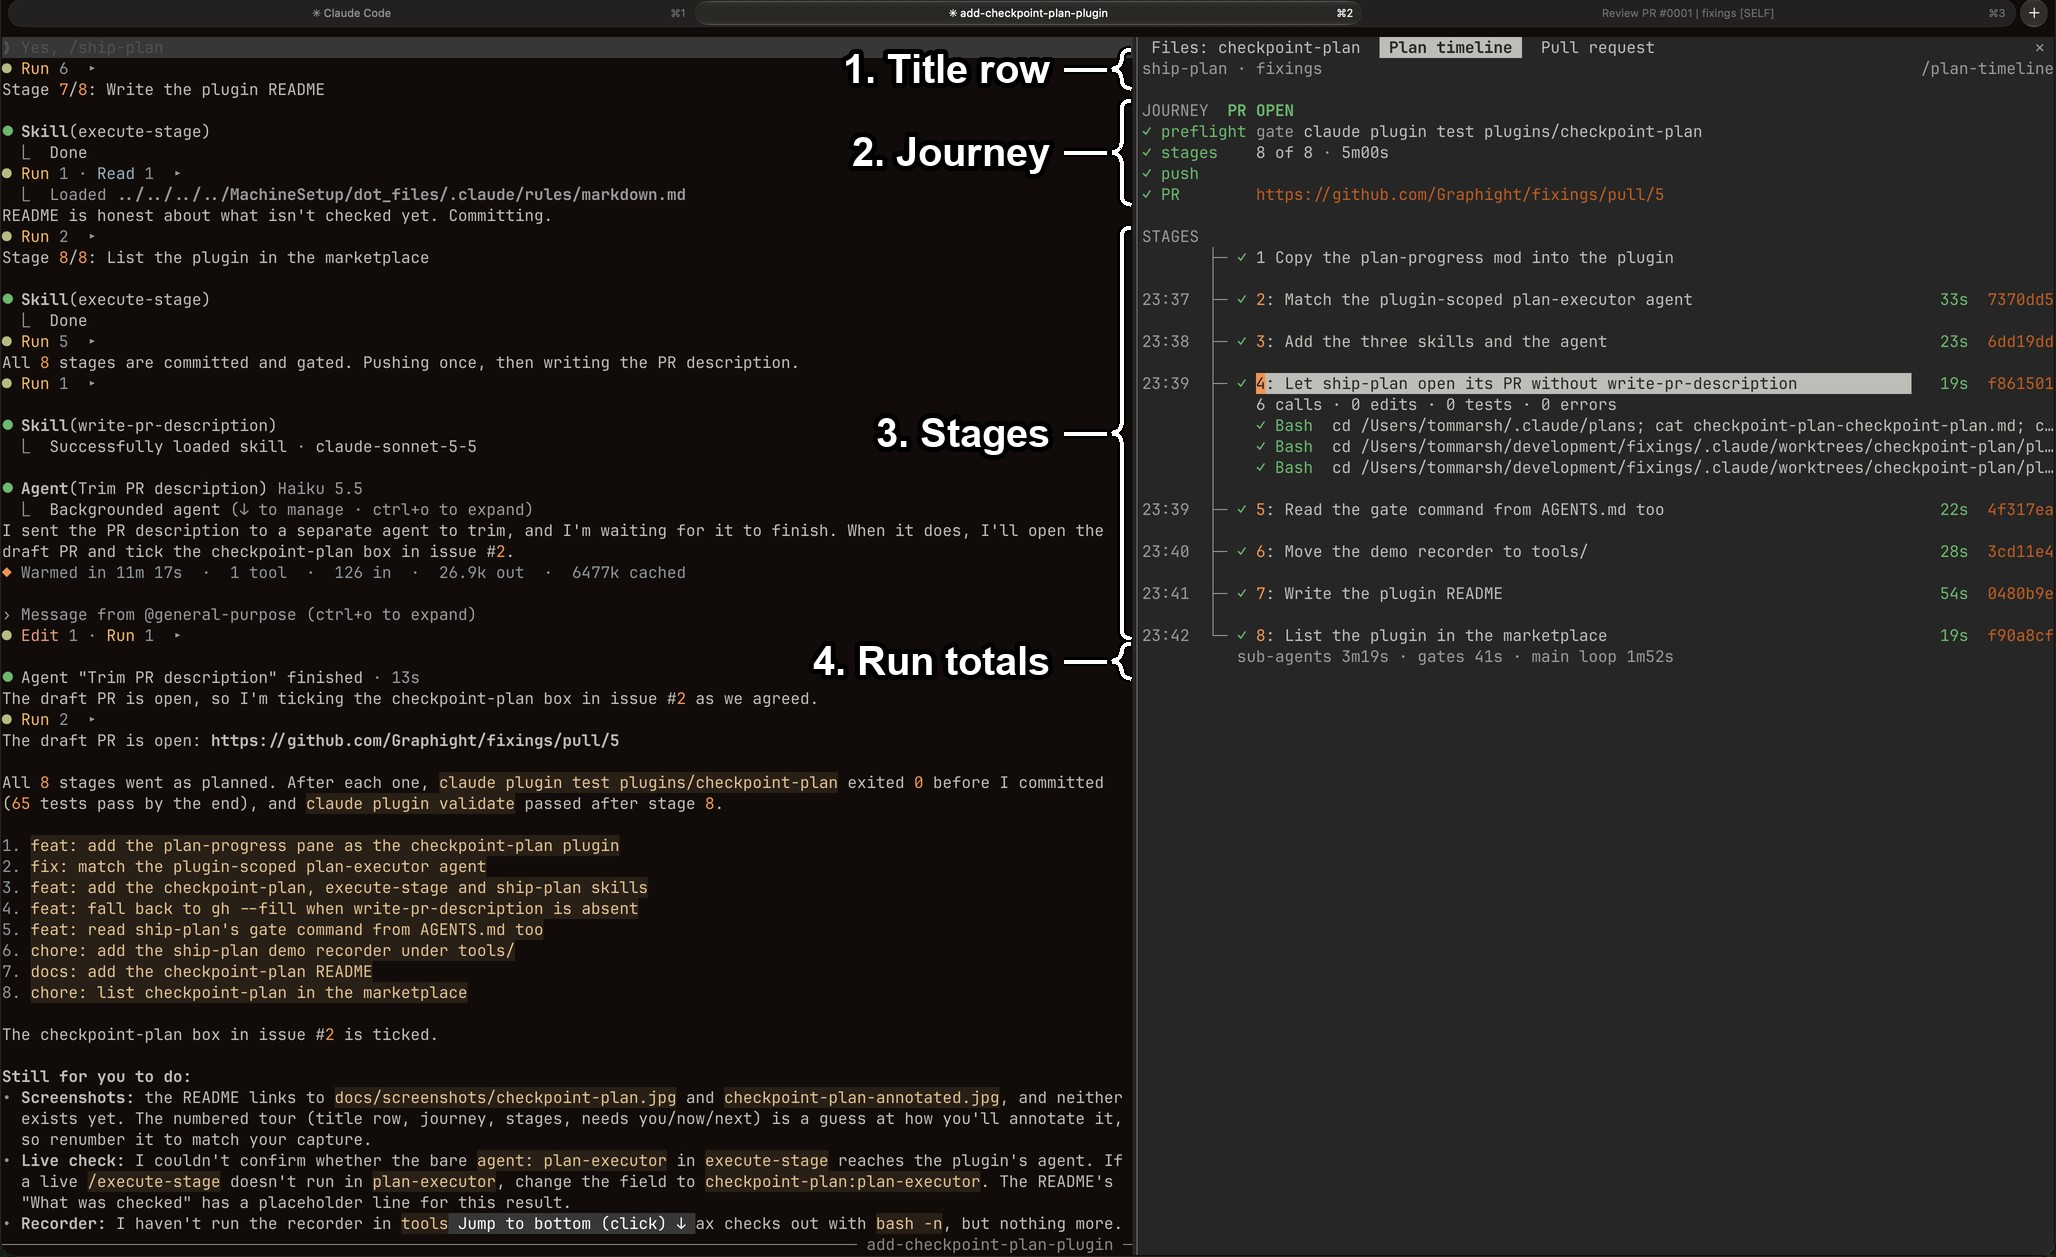
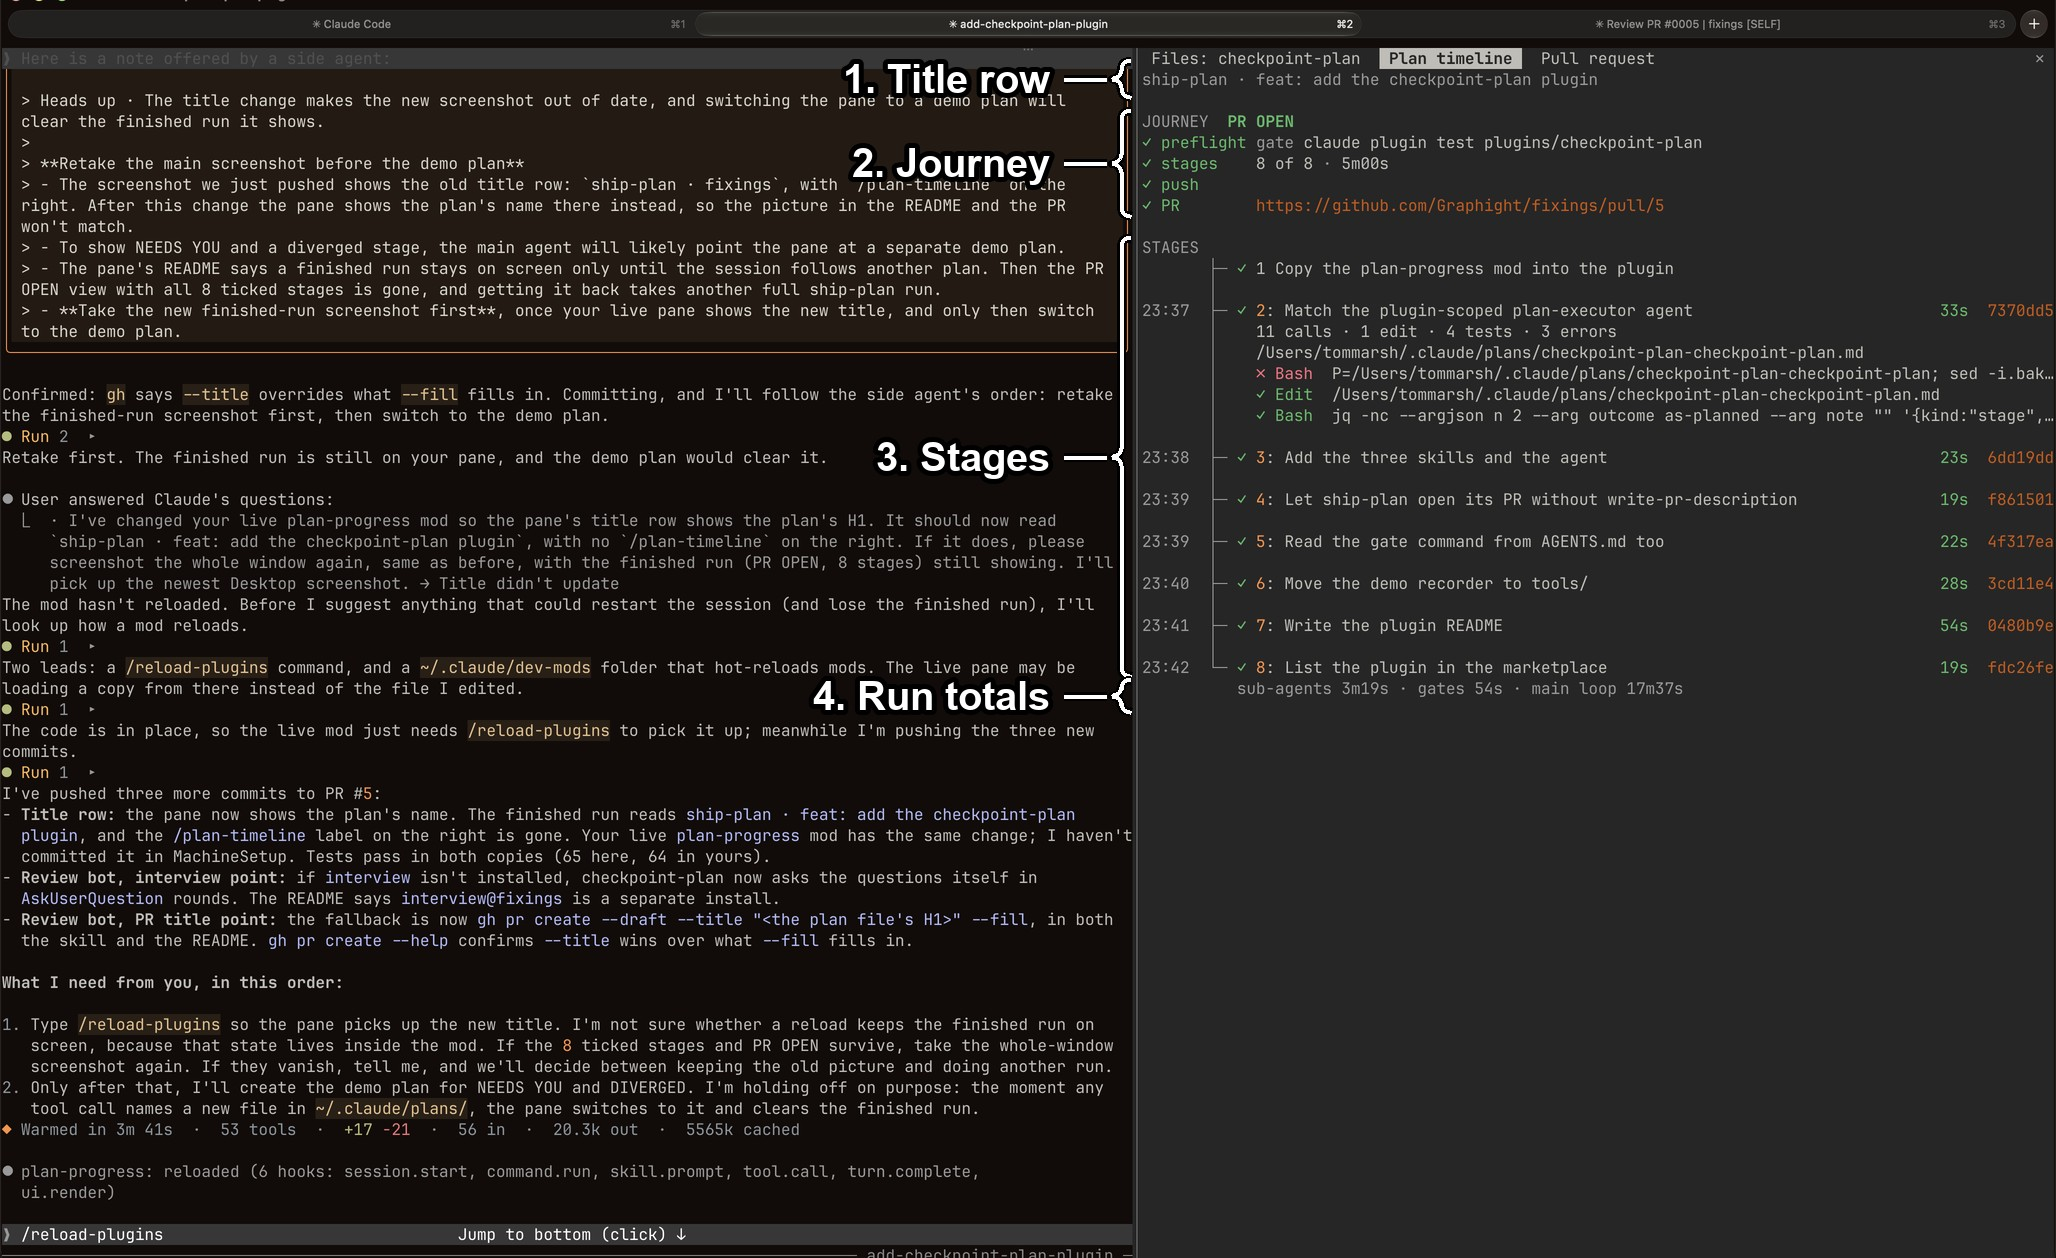
docs: retake the checkpoint-plan screenshots with the H1 title

Changed region(s): [[0.0, 0.0, 1.0, 1.0], [0.4047, 0.3103, 0.5603, 0.3723], [0.9961, 0.9928, 1.0, 1.0]]

diff --git a/plugins/checkpoint-plan/README.md b/plugins/checkpoint-plan/README.md
@@ -15,7 +15,7 @@ Install it with `/plugin install checkpoint-plan@fixings`.
    A `HALTED`, `STOPPED` or `PR OPEN` chip sits on the heading.
 3. **Stages.**
    One row per stage: its start time, a mark, the title, the sub-agent's elapsed time and the commit sha.
-   Stage 4 is open here, with its counts and last calls under its row.
+   Stage 2 is open here, with its counts, the file it edited and its last three calls under its row.
    See [The stages](#the-stages).
 4. **Run totals.**
    Once a run finishes, the time spent in sub-agents, in gates and in the main loop.
